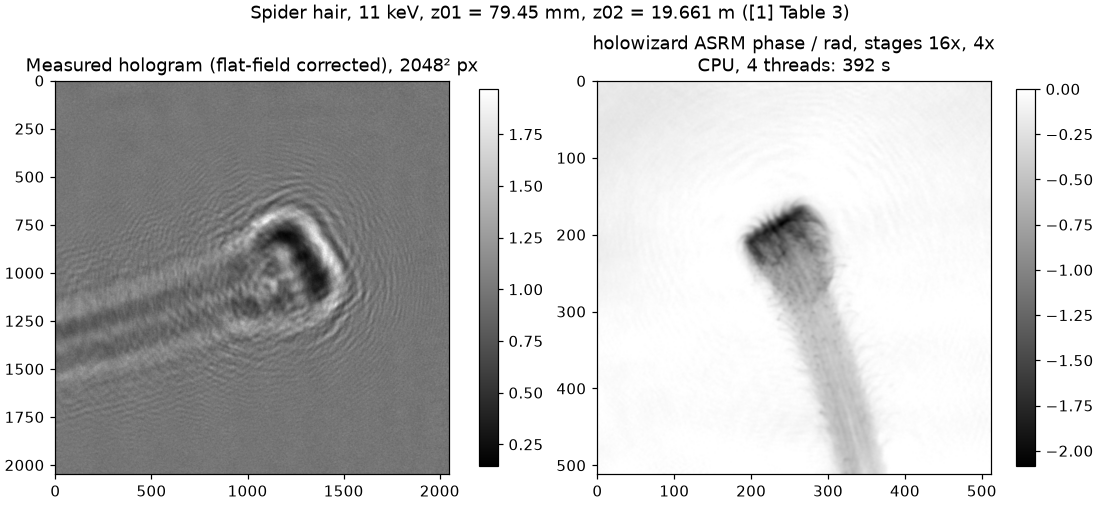
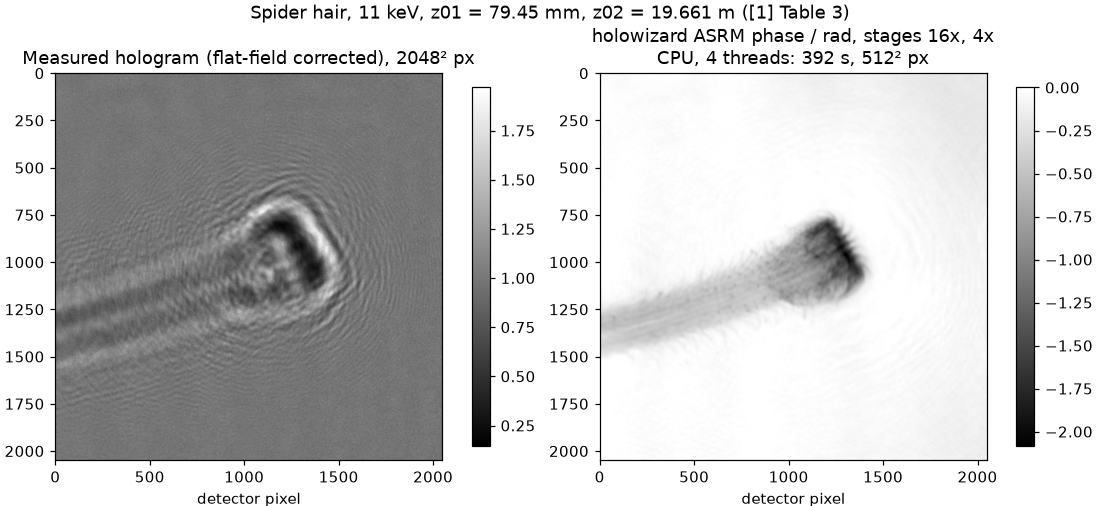
Fix holowizard output orientation in the ASRM CPU figure

diff --git a/scripts/holowizard_asrm_cpu.py b/scripts/holowizard_asrm_cpu.py
@@ -25,6 +25,7 @@ matplotlib.use("Agg")
 import holowizard.core  # noqa: E402
 import holowizard.core.utils.fileio as fileio  # noqa: E402
 import matplotlib.pyplot as plt  # noqa: E402
+import numpy as np  # noqa: E402
 import torch  # noqa: E402
 from holowizard.core.api.functions.single_projection.reconstruction import (  # noqa: E402
     reconstruct,
@@ -98,23 +99,27 @@ def main() -> None:
     start = time.perf_counter()
     result, loss = reconstruct(params, viewer=[])
     seconds = time.perf_counter() - start
-    phase = result.real.cpu().numpy()
+    # holowizard's process_image applies torch.rot90 to the input, so the result is rotated.
+    phase = np.rot90(result.real.cpu().numpy(), -1)
     print(
         f"device {holowizard.core.torch_running_device_name}, {args.threads} threads, "
         f"stages {args.stages}: {seconds:.0f} s, result {phase.shape}, "
         f"phase [{phase.min():.2f}, {phase.max():.2f}] rad, final loss {float(loss[-1]):.3e}"
     )
 
+    extent = (0, data.shape[1], data.shape[0], 0)
     fig, axes = plt.subplots(1, 2, figsize=(10, 4.6), layout="constrained")
-    im = axes[0].imshow(data, cmap="gray")
+    im = axes[0].imshow(data, cmap="gray", extent=extent)
     axes[0].set_title(f"Measured hologram (flat-field corrected), {data.shape[0]}² px")
     fig.colorbar(im, ax=axes[0], shrink=0.85)
-    im = axes[1].imshow(phase, cmap="gray")
+    im = axes[1].imshow(phase, cmap="gray", extent=extent)
     axes[1].set_title(
         f"holowizard ASRM phase / rad, stages {'x, '.join(map(str, args.stages))}x\n"
-        f"CPU, {args.threads} threads: {seconds:.0f} s"
+        f"CPU, {args.threads} threads: {seconds:.0f} s, {phase.shape[0]}² px"
     )
     fig.colorbar(im, ax=axes[1], shrink=0.85)
+    for ax in axes:
+        ax.set_xlabel("detector pixel")
     fig.suptitle(f"Spider hair, 11 keV, z01 = {args.z01_mm} mm, z02 = 19.661 m ([1] Table 3)")
     fig.savefig(args.out, dpi=110)
     print(f"saved {args.out}")

diff --git a/docs/laborbuch/01-physik-kern.md b/docs/laborbuch/01-physik-kern.md
@@ -268,8 +268,10 @@ $(I - A_0)W + A_0$. Vergleiche [1] Fig. 3–4.
 ![holowizard ASRM](figures/stage1-holowizard-asrm-cpu.png)
 
 Gemessenes Spinnenhaar-Hologramm aus dem Zenodo-Archiv von [1], rekonstruiert mit holowizard
-3.0.6 (ASRM, Stufen 16× und 4× wie im Beispiel des Pakets, `z01 = 79,45 mm`). Der
-Phasenbereich bis etwa −2 rad entspricht [2] Fig. 6.
+3.0.6 (ASRM, Stufen 16× und 4× wie im Beispiel des Pakets, `z01 = 79,45 mm`). Das Ergebnis
+der 4×-Stufe hat 512² Pixel; es ist zurückgedreht (Abschnitt 6) und auf die
+Detektorkoordinaten des Hologramms skaliert. Der Phasenbereich bis etwa −2 rad entspricht
+[2] Fig. 6.
 
 ### 5.6 Laufzeiten (CPU, 4 Threads)
 
@@ -280,7 +282,7 @@ Phasenbereich bis etwa −2 rad entspricht [2] Fig. 6.
 | PGD, 300 Iterationen auf 1024² | ≈ 6 s |
 | alle Stage-1-Abbildungen | ≈ 80 s |
 | holowizard ASRM, Stufe 16× (700 It.) | 27 s |
-| holowizard ASRM, Stufen 16× + 4× (700 + 300 It.) | ≈ 400 s |
+| holowizard ASRM, Stufen 16× + 4× (700 + 300 It.) | ≈ 390 s |
 
 Zum Vergleich [2] Table 1: 6 s bzw. 16 s pro innerer Rekonstruktion, 9–13 Rekonstruktionen
 pro Autofokus. Die 4×-Stufe kostet auf dieser CPU etwa 1,2 s pro Iteration (Spinnenhaar,
@@ -308,6 +310,11 @@ dauern. Etappe 3 braucht deshalb die GPU oder stärker gebinnte Daten.
   - `forge` (HoloForge): Datengenerator mit Mehrmaterial-Phantomen (xraylib) und
     Flat-Field-Augmentierung aus echten TIFFs. Gespeichert wird $\lvert\psi\rvert$, obwohl der
     Docstring „squared magnitude“ sagt.
+  - Achtung beim Vergleich: `process_image` dreht jedes Eingabebild mit `torch.rot90`. Das
+    Ergebnis von `reconstruct()` ist daher gegenüber dem geladenen Array um 90° gedreht.
+    `scripts/holowizard_asrm_cpu.py` dreht es für Abb. 5 zurück. Geprüft per Korrelation mit
+    der eigenen Rückpropagation: 0,34 für die Drehung um −90°, < 0,1 für alle anderen
+    Orientierungen.
 - **Fazit**: ASRM und die Autofokus-Baseline existieren als öffentlicher Code und laufen auf
   der CPU. Wegen der schweren, festgenagelten Umgebung nutze ich sie als Referenz in eigener
   Umgebung, nicht als Abhängigkeit des Pakets.
